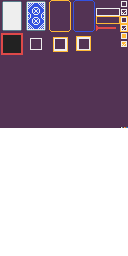
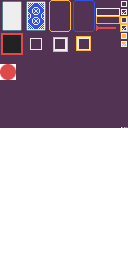
show off the alpha-blending a little

Changed region(s): [[0.0, 0.25, 0.125, 0.3125]]

diff --git a/libs/app/src/app.rs b/libs/app/src/app.rs
@@ -1,6 +1,6 @@
 use game::Splat;
 use gfx::{Commands};
-use platform_types::{Button, Input, Speaker, SFX};
+use platform_types::{command, sprite, unscaled, Button, Input, Speaker, SFX};
 pub use platform_types::StateParams;
 
 pub struct State {
@@ -75,6 +75,19 @@ fn update(state: &mut game::State, input: Input, speaker: &mut Speaker) {
 fn render(commands: &mut Commands, state: &game::State) {
     for &Splat { kind, x, y } in &state.splats {
         commands.draw_card(kind, x, y);
+
+        commands.sspr(
+            sprite::XY {
+                x: sprite::X(0),
+                y: sprite::Y(64),
+            },
+            command::Rect::from_unscaled(unscaled::Rect {
+                x: x.saturating_sub(unscaled::W(16)),
+                y: y.saturating_sub(unscaled::H(16)),
+                w: unscaled::W(16),
+                h: unscaled::H(16),
+            })
+        );
     }
 }
 
